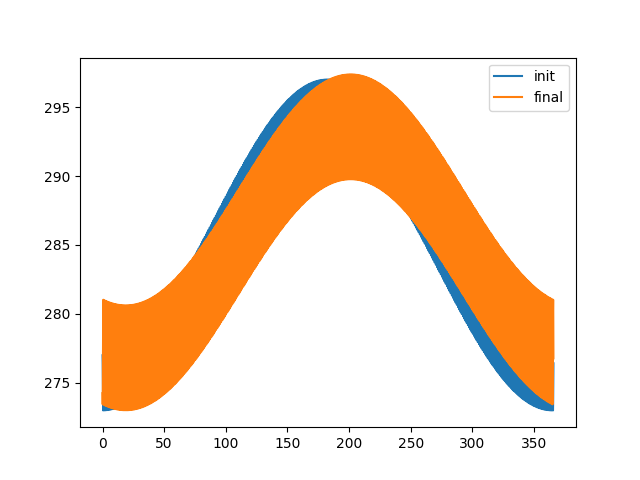
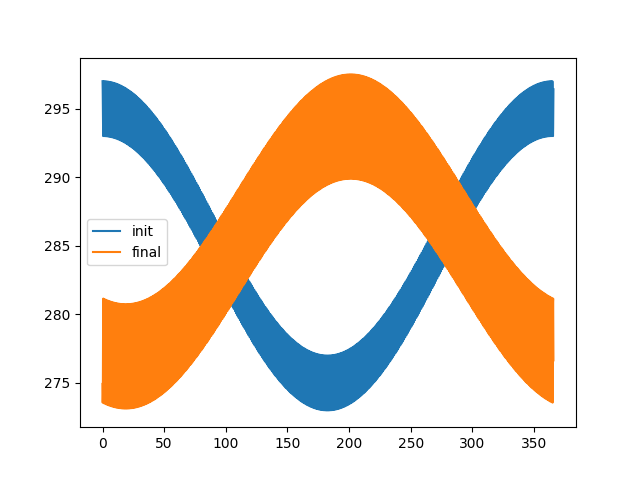
resultat avec la fonction de 3 cosinus sur l'ancienne bdd

diff --git a/donnees_collecte/meteo_france/analyse_station_unique/descente_cosinus/descente_cosinus.py b/donnees_collecte/meteo_france/analyse_station_unique/descente_cosinus/descente_cosinus.py
@@ -3,12 +3,12 @@ from matplotlib import pyplot as plt
 import numpy as np
 
 delta = 10**(-3)
-alpha = [1, 1, 1, 0.1, 0.1]
+alpha = [1, 1, 1, 1, 0.1, 0.1, 0.1]
 
-with open('temperature.json') as jsonfile :
+with open('../ancienne_bdd/totale/temperature.json') as jsonfile :
 	temperature = json.load(jsonfile)
 
-with open('humidite.json') as jsonfile :
+with open('../ancienne_bdd/totale/humidite.json') as jsonfile :
 	humidite = json.load(jsonfile)
 
 dates = set()
@@ -20,7 +20,7 @@ dates.sort()
 
 
 def fct_test(X, x) :
-	return X[0]*np.cos(2*np.pi*x + X[3]) + X[1]*np.cos(2*np.pi*x/365 + X[4]) + X[2]
+	return X[0]*np.cos(2*np.pi*x + X[4]) + X[1]*np.cos(2*np.pi*x/365 + X[5]) + X[2]*np.cos(4*np.pi*x + X[6]) + X[3]
 
 def ecart_temperature(temperature_test) :
 	ecarts_temperature = 0
@@ -33,10 +33,10 @@ def ecart_temperature(temperature_test) :
 	return (ecarts_temperature/compt)**(1/2)
 
 
-X = np.array([2.0,10.0,285.0,0.0,np.pi])
-# A,B,C,phi1,phi2
-# Acos(w1t + phi1) + Bcos(w2t+phi2) + C
-#w1 jour w2 annee
+X = np.array([2.0,10.0,0.0,285.0,0.0,0.0,0.0])
+# A,B,C,D,phi1,phi2,phi3
+# Acos(w1t + phi1) + Bcos(w2t+phi2) + Ccos(w3t+phi3) + D
+#w1 jour w2 annee w3 demi-journee
 
 for i in range(100) :
 	val_actuel = []
@@ -45,7 +45,7 @@ for i in range(100) :
 	val_actuel_ecart = ecart_temperature([dates,val_actuel])
 	if i == 0 :
 		plt.plot(dates, val_actuel, label='init')
-	dX = np.array([0.0,0.0,0.0,0.0,0.0])
+	dX = np.array([0.0,0.0,0.0,0.0,0.0,0.0,0.0])
 	for j in range(len(X)) :
 		X_modif = X.copy()
 		X_modif[j] = X_modif[j] + delta
@@ -56,8 +56,9 @@ for i in range(100) :
 		df = (val_modif_ecart - val_actuel_ecart)/delta
 		dX[j] = - df * alpha[j]
 	X = X + dX
-	X[3] = X[3]%(2*np.pi)
 	X[4] = X[4]%(2*np.pi)
+	X[5] = X[5]%(2*np.pi)
+	X[6] = X[6]%(2*np.pi)
 	#print(X)
 	if i%10 == 0 :
 		print("{} sur 100".format(i))
